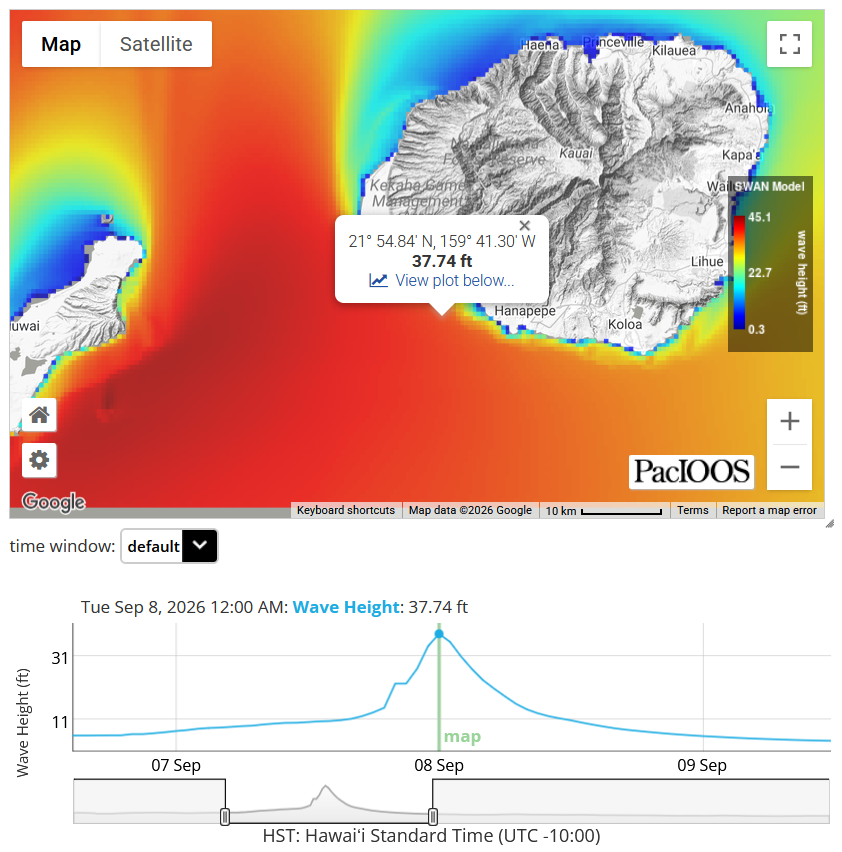
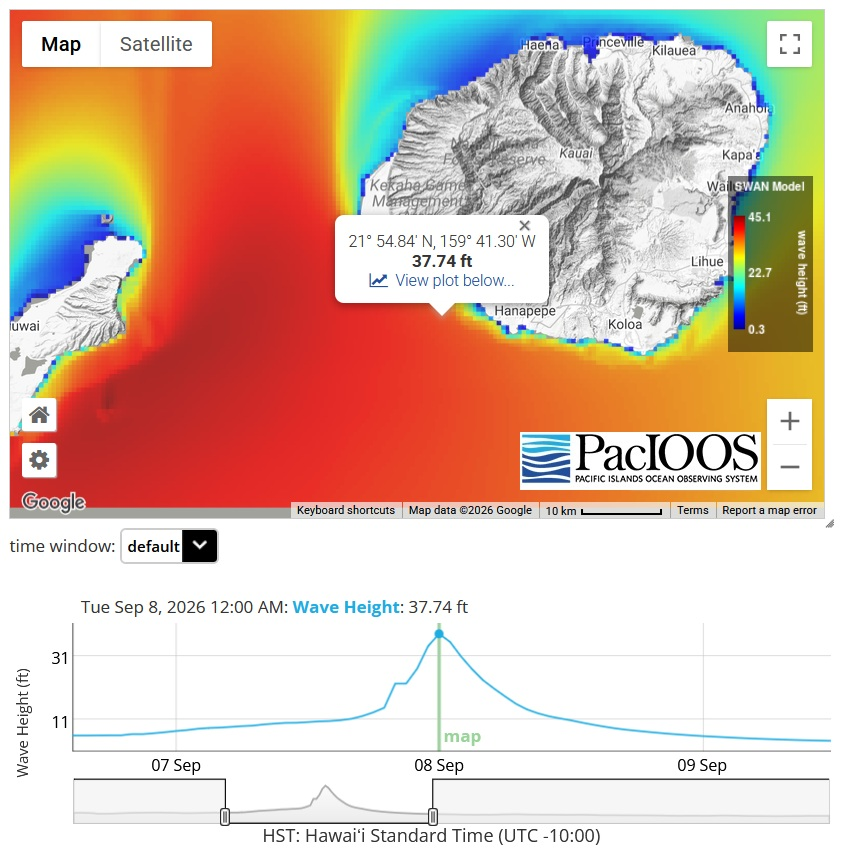
lowell

diff --git a/dews-hawaii-app/src/app/lowell-tracker/lowell-tracker.component.html b/dews-hawaii-app/src/app/lowell-tracker/lowell-tracker.component.html
@@ -1,3 +1,7 @@
+<div class="notice-banner">
+  There is a new <a href="https://www.hawaii.edu/climate-data-portal/hurricane-lowell/" target="_blank" rel="noopener">Hurricane Lowell summary page</a> available.
+</div>
+
 <header class="app-header">
   <h1>Hurricane Lowell Viewer</h1>
   <p class="subtitle">This website is designed to enable access to the most recent rainfall and wind speed data from Hawaiʻi Mesonet stations. Those stations record and transmit data every 5 minutes for numerous different variables. With the approach of Hurricane Lowell, interest is mainly on rainfall and wind speed. Here you can find up-to-date rainfall accumulation and maximum wind and wind gust speeds for the period starting September 7, 12:00 AM HST. Data will be updated every 15 minutes.

diff --git a/dews-hawaii-app/src/app/lowell-focus/lowell-focus.component.html b/dews-hawaii-app/src/app/lowell-focus/lowell-focus.component.html
@@ -1,3 +1,7 @@
+<div class="notice-banner">
+  There is a new <a href="https://www.hawaii.edu/climate-data-portal/hurricane-lowell/" target="_blank" rel="noopener">Hurricane Lowell summary page</a> available.
+</div>
+
 <header class="app-header">
   <a href="https://www.hawaii.edu/climate-data-portal/hurricane-lowell-viewer/" class="back-link" target="_blank">&larr; Back to Hurricane Lowell Viewer</a>
   <h1>{{ islandLabel }} Station Watch</h1>

diff --git a/dews-hawaii-app/src/app/lowell-focus/lowell-focus.component.css b/dews-hawaii-app/src/app/lowell-focus/lowell-focus.component.css
@@ -13,6 +13,13 @@
   font: 14px/1.45 "Inter", "Segoe UI", Roboto, Helvetica, Arial, sans-serif;
 }
 
+.notice-banner {
+  width: 100%; text-align: center; padding: 10px 20px;
+  background: #eff6ff; border-bottom: 1px solid #bfdbfe;
+  font-size: 13px; font-weight: 600; color: #1e3a8a;
+}
+.notice-banner a { color: var(--accent); }
+
 .app-header {
   width: 100%; text-align: center; padding: 28px 20px 6px;
 }

diff --git a/dews-hawaii-app/src/app/lowell-tracker/lowell-tracker.component.css b/dews-hawaii-app/src/app/lowell-tracker/lowell-tracker.component.css
@@ -13,6 +13,13 @@
   font: 14px/1.45 "Inter", "Segoe UI", Roboto, Helvetica, Arial, sans-serif;
 }
 
+.notice-banner {
+  width: 100%; text-align: center; padding: 10px 20px;
+  background: #eff6ff; border-bottom: 1px solid #bfdbfe;
+  font-size: 13px; font-weight: 600; color: #1e3a8a;
+}
+.notice-banner a { color: var(--accent); }
+
 .app-header {
   width: 100%; text-align: center; padding: 28px 20px 6px;
 }
